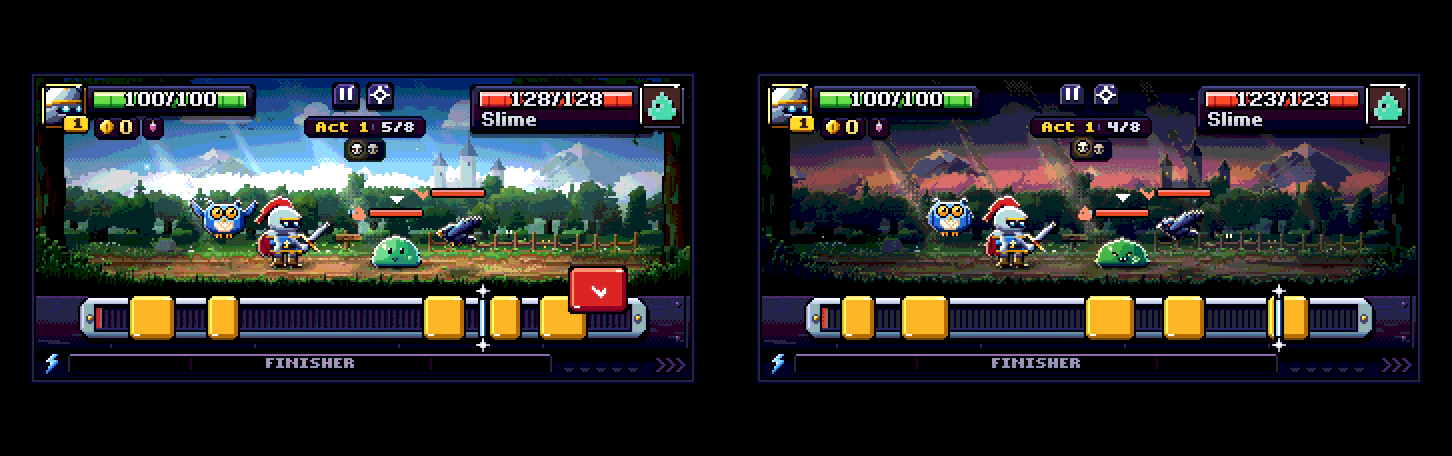
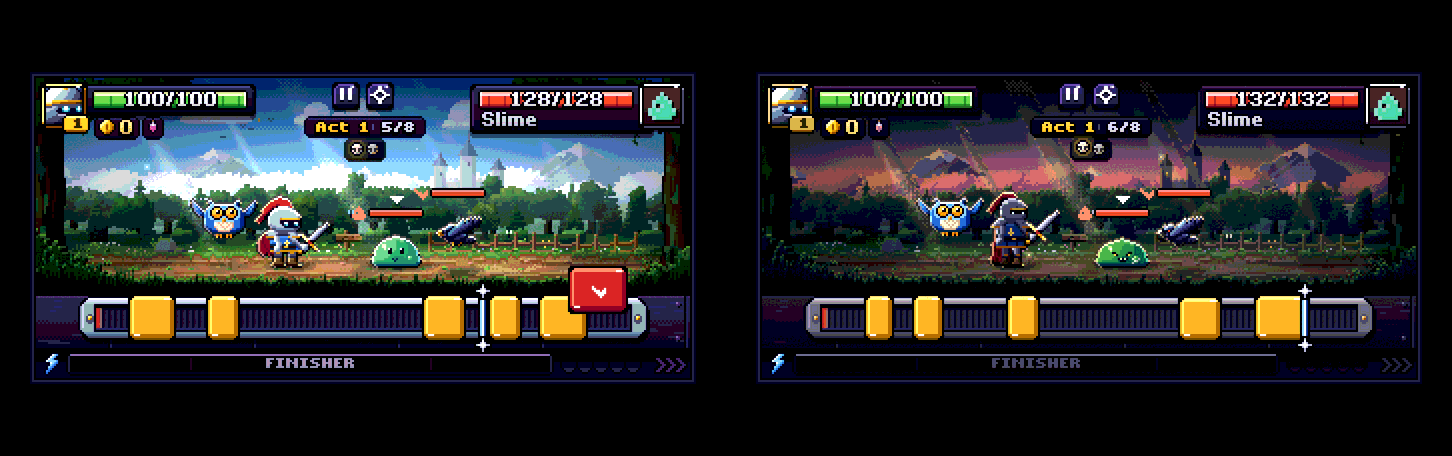
Stronger rim light on the darker stages (forest, ruins, pass, hollow) so the heroes and foes keep their step from the backdrop; the art audit's before/after sheets from the final build (boot check: phone ok, desk ok)
Claude-Session: https://claude.ai/code/session_01XHk7WXwUp52tGKCfxLyk6o

diff --git a/src/engine/art-stage.ts b/src/engine/art-stage.ts
@@ -44,7 +44,7 @@ export const STAGE_LIGHT: Record<Theme, StageLight> = {
     floor: 0.56,
     top: 0.4,
     rim: 0xffd890, // the late sun's gold
-    rimAmt: 0.75,
+    rimAmt: 0.86,
     rimLeft: 0.6,
     rimTop: 1,
     shadow: 0x0c1a14,
@@ -62,7 +62,7 @@ export const STAGE_LIGHT: Record<Theme, StageLight> = {
     floor: 0.56,
     top: 0.3,
     rim: 0x9ac0ff,
-    rimAmt: 0.7,
+    rimAmt: 0.8,
     rimLeft: 0.7,
     rimTop: 1,
     shadow: 0x02040a,
@@ -80,7 +80,7 @@ export const STAGE_LIGHT: Record<Theme, StageLight> = {
     floor: 0.56,
     top: 0.34,
     rim: 0xffa050,
-    rimAmt: 0.85,
+    rimAmt: 0.9,
     rimLeft: 1,
     rimTop: 0.45,
     shadow: 0x10040c,
@@ -98,7 +98,7 @@ export const STAGE_LIGHT: Record<Theme, StageLight> = {
     floor: 0.5,
     top: 0.26,
     rim: 0xc4d8ff,
-    rimAmt: 0.66,
+    rimAmt: 0.76,
     rimLeft: 0.6,
     rimTop: 1,
     shadow: 0x262e5a,

diff --git a/docs/art-audit/README.md b/docs/art-audit/README.md
@@ -100,4 +100,4 @@ placeholder). Contact sheets come from `scripts/art-audit.mjs` (run it by hand a
 | All nine stages side by side | | | `after/backdrops-mood.png` (left before, right after, the textures alone); `after/fight-mood-act1-desktop.png` (1440x900). |
 | Greenmarch foes | 4 (cute: blush, smiles, candy colours) | 4 | `after/foes-menace-greenmarch.png` (top before, bottom after). Slimes scowl with glowing eyes and teeth, a bone in the core; the boar, crow, bandit, captain, shaman, wolf and piglets darker with an edge; the Boar King's ember eye, fangs, hackles and jagged crown. |
 | Frostpeaks foes | 4 | 4 | `after/foes-menace-frostpeaks.png`. Glacia darker with a slit pupil and fangs; the yeti cub's dark face and glowing eyes. |
-| Pendulum symbols on foes | | | Gone from the Boar King (crown, portrait), the golem (rune), the captain's portrait (now an Atlas page) and Bellows (a white-hot blade on his anvil). |
+| Pendulum symbols on foes | | | Gone from the Boar King (crown, portrait), the golem's crown (a glowing compass-star rune) and Bellows (a white-hot blade on his anvil); the captain's and golem's portraits are 2A's (A19). |
